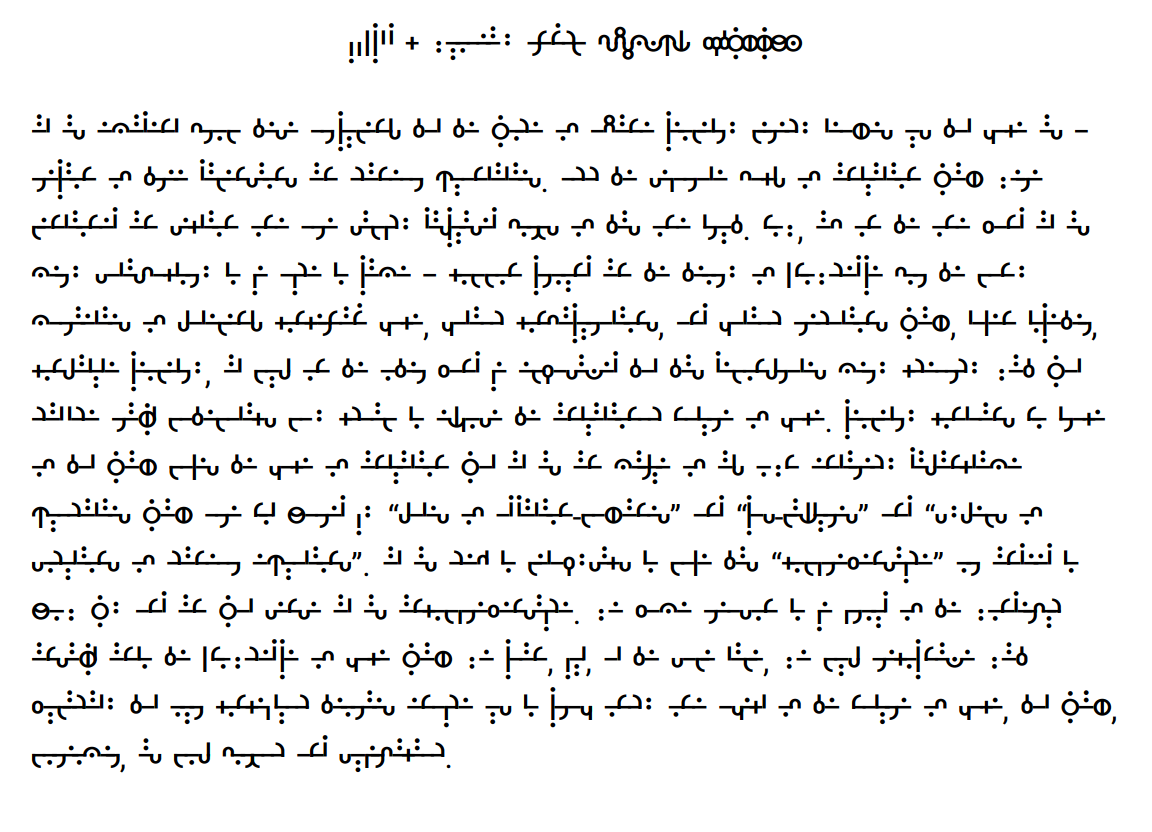
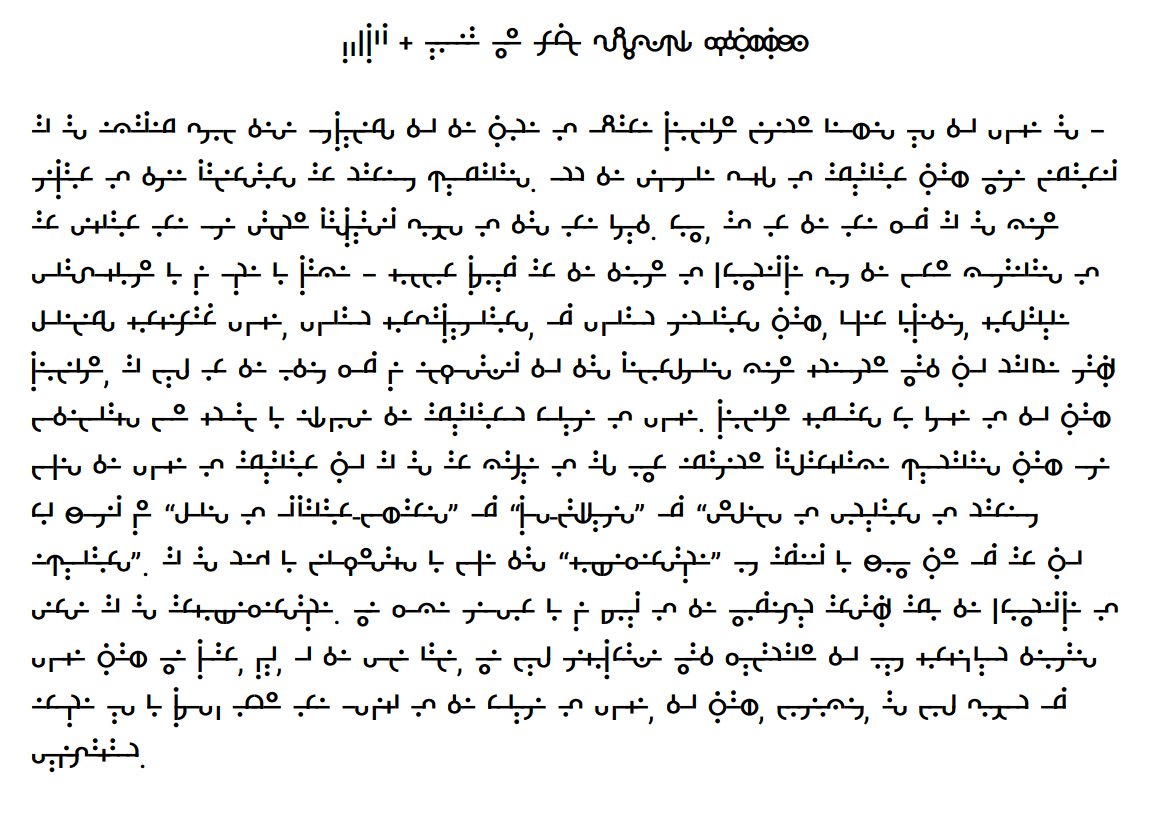
Reform w/y, refine kerning

Changed region(s): [[0.0, 0.125, 0.9688, 0.9375], [0.2812, 0.0312, 0.7188, 0.0938], [0.5, 0.125, 0.5312, 0.1562]]

diff --git a/specimen/specimen.html b/specimen/specimen.html
@@ -55,7 +55,7 @@
   </head>
   <body>
     <section class="affine" style="line-height: 1;text-align: center;">
-      <p>bpkgtd c wuoaeiy rnnglm fsffssvzqx hphthwhchghshj</p>
+      <p>bpkgtd c uoaei wy rnnglm fsffssvzqx hphthwhchghshj</p>
     </section>
 
     <div class="screen-two-up">
